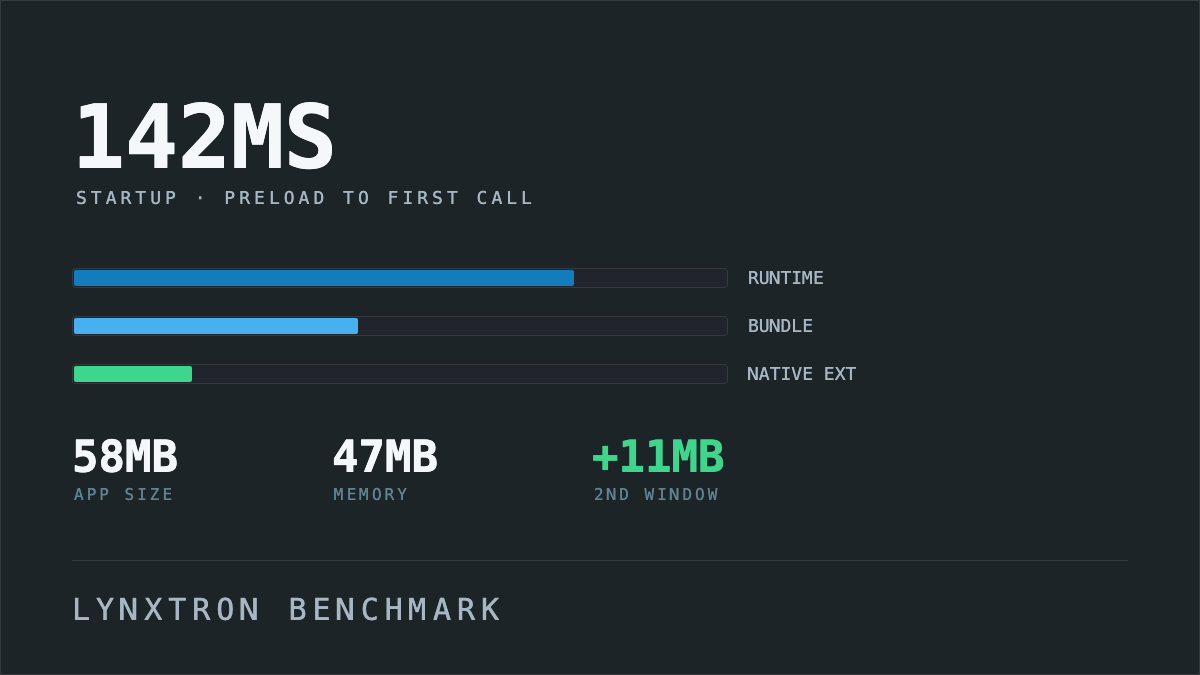
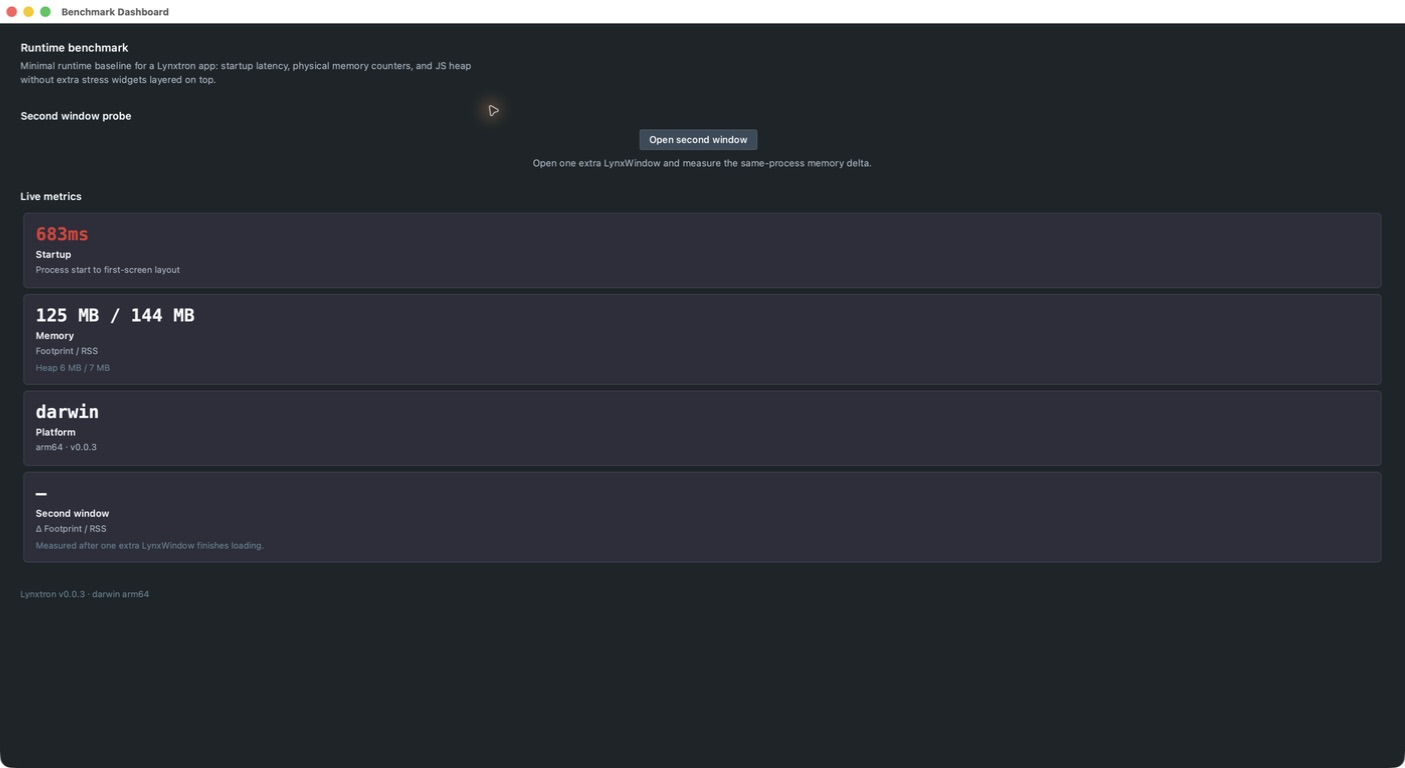
fix(benchmark): remove app size and measure process-to-first-screen startup

diff --git a/showcases/benchmark/src/main/desktop/preload.ts b/showcases/benchmark/src/main/desktop/preload.ts
@@ -1,162 +1,9 @@
-// Record startup time as early as possible
-const preloadStartTime = Date.now();
-
 import { contextBridge } from '@lynx-js/lynxtron/context-bridge';
-import fs from 'fs';
-import path from 'path';
 import os from 'os';
 import { getMemoryUsageSnapshot } from './memory-metrics';
 
-// --- Debug log helper ---
-const BENCHMARK_LOG = '/tmp/benchmark_preload.log';
-function dbg(msg: string) {
-  try {
-    fs.appendFileSync(BENCHMARK_LOG, `[${new Date().toISOString()}] ${msg}\n`);
-  } catch (_) {}
-  console.log('[Benchmark]', msg);
-}
-
-// --- App Size helpers ---
-
-function getFileSizeBytes(filePath: string): number {
-  try {
-    return fs.statSync(filePath).size;
-  } catch {
-    return 0;
-  }
-}
-
-function sumDirFileSizes(dir: string, extensions?: string[]): number {
-  let total = 0;
-  try {
-    const entries = fs.readdirSync(dir, { withFileTypes: true });
-    for (const entry of entries) {
-      const fullPath = path.join(dir, entry.name);
-      if (entry.isDirectory()) {
-        total += sumDirFileSizes(fullPath, extensions);
-      } else if (entry.isFile()) {
-        if (!extensions || extensions.some((ext) => entry.name.endsWith(ext))) {
-          total += getFileSizeBytes(fullPath);
-        }
-      }
-    }
-  } catch {
-    // Ignore unreadable directories
-  }
-  return total;
-}
-
-// Use __non_webpack_require__ to bypass rspack compile-time require.resolve().
-// rspack transforms require.resolve() into module IDs at build time, but we need
-// actual file path resolution at runtime.
-const nativeRequire = typeof __non_webpack_require__ !== 'undefined'
-  ? __non_webpack_require__ as NodeRequire
-  : require;
-
-function findPackageRoot(resolvedPath: string): string {
-  let pkgDir = path.dirname(resolvedPath);
-  while (pkgDir !== path.dirname(pkgDir)) {
-    if (fs.existsSync(path.join(pkgDir, 'package.json'))) break;
-    pkgDir = path.dirname(pkgDir);
-  }
-  return pkgDir;
-}
-
-function getFrameworkSizeFromVersionsDir(versionsDir: string): number {
-  if (!fs.existsSync(versionsDir)) {
-    return 0;
-  }
-
-  try {
-    const versions = fs
-      .readdirSync(versionsDir)
-      .filter((v) => v !== 'Current' && v !== '.DS_Store');
-    let sizeInBytes = 0;
-    for (const version of versions) {
-      const binaryPath = path.join(versionsDir, version, 'Lynxtron Framework');
-      sizeInBytes += getFileSizeBytes(binaryPath);
-    }
-    return sizeInBytes;
-  } catch {
-    return 0;
-  }
-}
-
-function getRuntimeAppCandidates(pkgDir: string): string[] {
-  return Array.from(
-    new Set([
-      path.join(pkgDir, 'dist', 'lynxtron.app'),
-      path.join(pkgDir, 'dist', 'darwin', os.arch(), 'lynxtron.app'),
-      path.join(pkgDir, 'dist', 'darwin', 'arm64', 'lynxtron.app'),
-      path.join(pkgDir, 'dist', 'darwin', 'x64', 'lynxtron.app'),
-    ]),
-  );
-}
-
-function getRuntimeSize(): number {
-  try {
-    const resolvedPath = nativeRequire.resolve('@lynx-js/lynxtron');
-    const pkgDir = findPackageRoot(resolvedPath);
-    const appCandidates = getRuntimeAppCandidates(pkgDir);
-
-    for (const appDir of appCandidates) {
-      const versionsDir = path.join(
-        appDir,
-        'Contents',
-        'Frameworks',
-        'Lynxtron Framework.framework',
-        'Versions',
-      );
-      const sizeInBytes = getFrameworkSizeFromVersionsDir(versionsDir);
-      if (sizeInBytes > 0) {
-        dbg(`runtime path: ${resolvedPath} appPath: ${appDir} size: ${sizeInBytes}`);
-        return sizeInBytes;
-      }
-    }
-
-    dbg(`runtime path: ${resolvedPath} | no framework binary found in ${appCandidates.join(', ')}`);
-    return 0;
-  } catch (err) {
-    dbg(`getRuntimeSize error: ${err}`);
-    return 0;
-  }
-}
-
-function getBusinessCodeSize(): number {
-  // Business code: .js + .lynx.bundle + .json files in dist/desktop/
-  const distDesktop = path.join(__dirname);
-  return sumDirFileSizes(distDesktop, ['.js', '.bundle', '.json']);
-}
-
-function getExtensionsSize(): number {
-  // Native extensions in dist/desktop/node_modules/
-  const nodeModulesPath = path.join(__dirname, 'node_modules');
-  if (!fs.existsSync(nodeModulesPath)) {
-    return 0;
-  }
-  return sumDirFileSizes(nodeModulesPath);
-}
-
-// --- Expose API ---
-
 contextBridge.exposeInLynxBTS({
   benchmark: {
-    getAppSize() {
-      const runtime = getRuntimeSize();
-      const business = getBusinessCodeSize();
-      const extensions = getExtensionsSize();
-      return {
-        runtime,
-        business,
-        extensions,
-        total: runtime + business + extensions,
-      };
-    },
-
-    getStartupTime() {
-      return Date.now() - preloadStartTime;
-    },
-
     getMemoryUsage() {
       return getMemoryUsageSnapshot();
     },

diff --git a/showcases/benchmark/src/app/App.tsx b/showcases/benchmark/src/app/App.tsx
@@ -2,14 +2,6 @@ import { useState, useEffect, useCallback } from '@lynx-js/react';
 import '@lynxtron-examples/config/tokens.css';
 import './App.css';
 import { MetricCard } from './components/MetricCard';
-import { SizeBreakdown } from './components/SizeBreakdown';
-
-interface AppSize {
-  runtime: number;
-  business: number;
-  extensions: number;
-  total: number;
-}
 
 interface MemoryUsage {
   primary: number;
@@ -89,7 +81,6 @@ function startupColor(ms: number): string {
 }
 
 export function App() {
-  const [appSize, setAppSize] = useState<AppSize | null>(null);
   const [startupTime, setStartupTime] = useState<number>(0);
   const [memory, setMemory] = useState<MemoryUsage | null>(null);
   const [platform, setPlatform] = useState<PlatformInfo | null>(null);
@@ -104,6 +95,14 @@ export function App() {
   const memoryPrimaryLabel = memory?.primaryLabel ?? fallbackMemoryLabels.primaryLabel;
   const memorySecondaryLabel = memory?.secondaryLabel ?? fallbackMemoryLabels.secondaryLabel;
   const memoryLabelText = formatMemoryLabels(memoryPrimaryLabel, memorySecondaryLabel);
+
+  const refreshStartupTime = useCallback(() => {
+    // The host caches the first-screen result, so bridge latency is not measured.
+    // @ts-ignore — bridge is a Lynx global
+    NativeModules.bridge.call('getStartupTime', {}, (ms: number | null) => {
+      if (typeof ms === 'number' && ms >= 0) setStartupTime(ms);
+    });
+  }, []);
 
   const refreshMemory = useCallback(() => {
     try {
@@ -175,14 +174,6 @@ export function App() {
       const api = getBenchmarkApi();
       if (!api) return;
 
-      // Load app size
-      const size: AppSize = api.getAppSize();
-      setAppSize(size);
-
-      // Load startup time
-      const ms: number = api.getStartupTime();
-      setStartupTime(ms);
-
       // Load platform info
       const info: PlatformInfo = api.getPlatformInfo();
       setPlatform(info);
@@ -191,16 +182,18 @@ export function App() {
     }
 
     // Initial memory read
+    refreshStartupTime();
     refreshMemory();
     refreshSecondWindowDelta();
 
     // Poll memory every 2 seconds
     const interval = setInterval(() => {
+      refreshStartupTime();
       refreshMemory();
       refreshSecondWindowDelta();
     }, 2000);
     return () => clearInterval(interval);
-  }, [refreshMemory, refreshSecondWindowDelta]);
+  }, [refreshMemory, refreshSecondWindowDelta, refreshStartupTime]);
 
   const memHeapInfo =
     memory != null
@@ -230,7 +223,7 @@ export function App() {
       <scroll-view scroll-y className="scroll-content">
         <text className="page-title">Runtime benchmark</text>
         <text className="page-copy">
-          Minimal runtime baseline for a Lynxtron app: package size, startup latency, physical
+          Minimal runtime baseline for a Lynxtron app: startup latency, physical
           memory counters, and JS heap without extra stress widgets layered on top.
         </text>
 
@@ -252,14 +245,9 @@ export function App() {
 
         <view className="cards-row" style={{ flexDirection: 'row' }}>
           <MetricCard
-            title="App size"
-            value={appSize != null ? formatMB(appSize.total) : '—'}
-            subtitle="Total on disk"
-          />
-          <MetricCard
             title="Startup"
             value={startupTime > 0 ? formatMS(startupTime) : '—'}
-            subtitle="Preload to first call"
+            subtitle="Process start to first-screen layout"
             accentColor={startupTime > 0 ? startupColor(startupTime) : '#f5f8fa'}
           />
           <MetricCard
@@ -281,14 +269,6 @@ export function App() {
             accentColor={secondWindowDelta != null ? '#48aff0' : '#f5f8fa'}
           />
         </view>
-
-        {appSize != null ? (
-          <SizeBreakdown
-            runtime={appSize.runtime}
-            business={appSize.business}
-            extensions={appSize.extensions}
-          />
-        ) : null}
 
         <text className="footer">{footerText}</text>
       </scroll-view>

diff --git a/showcases/benchmark/src/main/desktop/main.ts b/showcases/benchmark/src/main/desktop/main.ts
@@ -10,6 +10,12 @@ import {
 
 const WINDOW_SETTLE_MS = 800;
 
+// Use the OS process creation time, not the time this JS module or preload runs.
+const processCreatedAt = (process as NodeJS.Process & {
+  getCreationTime(): number | null;
+}).getCreationTime();
+let startupTime: number | null = null;
+
 let mainWindow: LynxWindow | null = null;
 let secondWindow: LynxWindow | null = null;
 let secondWindowDelta: MemoryUsageDelta | null = null;
@@ -28,6 +34,7 @@ function createBenchmarkWindow(title: string, width: number, height: number) {
 }
 
 function registerBridgeHandlers() {
+  lynxBridge.handle('getStartupTime', () => startupTime);
   lynxBridge.handle('openSecondWindowAndMeasure', () => {
     if (secondWindow) {
       secondWindow.show();
@@ -61,6 +68,15 @@ function registerBridgeHandlers() {
 app.whenReady().then(() => {
   registerBridgeHandlers();
   mainWindow = createBenchmarkWindow('Benchmark Dashboard', 700, 520);
+  // on-first-screen reports first-screen layout completion, not display presentation.
+  // Measure only the initial main window; reloads and extra windows must not reset it.
+  mainWindow.once('on-first-screen', () => {
+    const firstScreenAt = Date.now();
+    if (processCreatedAt != null && processCreatedAt > 0 && processCreatedAt <= firstScreenAt) {
+      startupTime = Math.round(firstScreenAt - processCreatedAt);
+      console.log(`[Benchmark] Process creation to first-screen layout: ${startupTime} ms`);
+    }
+  });
   mainWindow.show();
   mainWindow.loadFile(LYNX_BUNDLE_PATH);
 });

diff --git a/.changeset/quiet-benchmarks-measure.md b/.changeset/quiet-benchmarks-measure.md
@@ -1,0 +1,7 @@
+---
+"@lynxtron-examples/benchmark": patch
+---
+
+Remove the misleading app size metric and its filesystem scanning. A showcase running inside Lynxtron Go shares the host runtime and cannot report a standalone application size.
+
+Measure startup from OS process creation to the main window's first-screen layout event instead of from preload execution to a UI bridge call.
